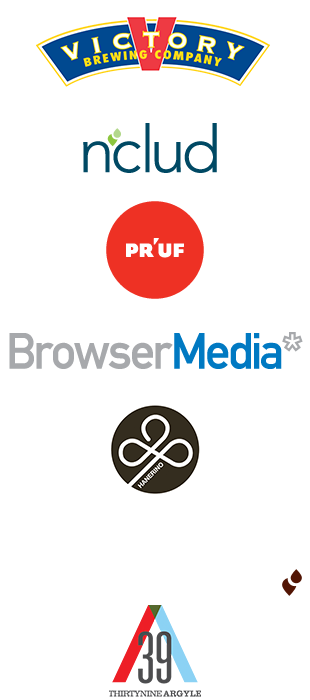
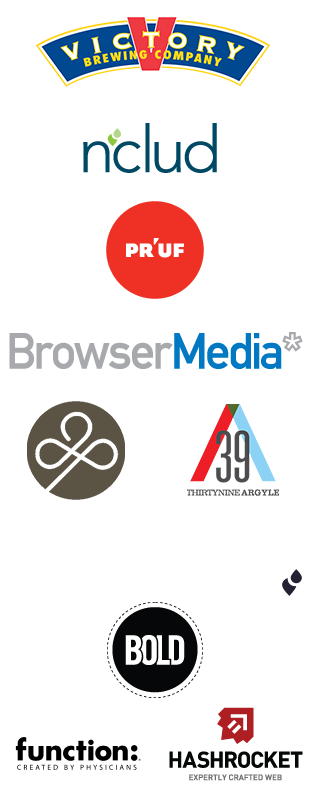
9 sponsors total: Function, hashrocket, Bold

diff --git a/index.html b/index.html
@@ -1,6 +1,6 @@
 ---
 layout: nil
-css_version: '15'
+css_version: '16'
 script_version: '07'
 ---
 <!doctype html>
@@ -148,16 +148,18 @@ script_version: '07'
             <li class="n1"><a class="victory ir" href="http://victorybeer.com/" title="Victory Brewing Company" >Victory Brewing Company</a></li>
             <li class="n2"><a class="pruf ir" href="http://www.mypruf.com/" title="PR&rsquo;UF">PR&rsquo;UF</a></li>
             <li class="n3"><a class="browser-media ir" href="http://www.browsermedia.com/" title="BrowserMedia">BrowserMedia</a></li>
-            <li class="n4"><a class="nclud ir" href="http://nclud.com/" title="nclud" >nclud</a></li>
-            <li class="n5"><a class="hanerino ir" href="http://hanerino.com/" title="Hanerino">Hanerino</a></li>
-            <li class="n6 argyle"><a class="argyle ir" href="http://39argyle.com" title="39Argyle">39Argyle</a></li>
-            <li class="n7 open">Sponsorship available</li>
+            <li class="n4 half"><a class="hanerino ir" href="http://hanerino.com/" title="Hanerino">Hanerino</a></li>
+            <li class="n5 half"><a class="function ir" href="http://functiondrinks.com" title="Function Drinks">Function Drinks</a></li>
+            <li class="n6 half"><a class="hashrocket ir" href="http://hashrocket.com/" title="Hashrocket">Hashrocket</a></li>
+            <li class="n7 half"><a class="argyle ir" href="http://39argyle.com" title="39Argyle">39Argyle</a></li>
+            <li class="n8"><a class="nclud ir" href="http://nclud.com/" title="nclud" >nclud</a></li>
+            <li class="n9"><a class="bold ir" href="http://twitter.com/boldinc" title="Bold" >Bold</a></li>
           </ul>
 
           <p class="fontfabric"><a href="http://fontfabric.com/">Fonts by <b>Fontfabric</b></a></p>
 
           <p class="blurb">
-            Help make BeerCamp happen. <strong>Become a sponsor!</strong> Email us at <a href="mailto:events@nclud.com">events@nclud.com</a>
+            Drink up. These guys are buying the rounds.
           </p>
         </section> <!-- #sponsorz -->
 

diff --git a/css/style.css b/css/style.css
@@ -762,14 +762,20 @@ a:hover {
   text-align: center;
 }
 
+#sponsorz .spnsr-list li.half { width: 145px; }
+
 #sponsorz .spnsr-list li.n2 { left: 330px; }
+#sponsorz .spnsr-list li.n5 { left: 165px; }
+#sponsorz .spnsr-list li.n7 { left: 825px; }
 #sponsorz .spnsr-list li.n3,
-#sponsorz .spnsr-list li.n5,
-#sponsorz .spnsr-list li.n7 { left: 660px; }
-#sponsorz .spnsr-list li.n4,
-#sponsorz .spnsr-list li.n5 { top: 120px; }
 #sponsorz .spnsr-list li.n6,
-#sponsorz .spnsr-list li.n7 { top: 240px; }
+#sponsorz .spnsr-list li.n9 { left: 660px; }
+#sponsorz .spnsr-list li.n4,
+#sponsorz .spnsr-list li.n5,
+#sponsorz .spnsr-list li.n6,
+#sponsorz .spnsr-list li.n7 { top: 120px; }
+#sponsorz .spnsr-list li.n8,
+#sponsorz .spnsr-list li.n9 { top: 240px; }
 
 #sponsorz .spnsr-list li a {
   background-image: url('../img/sponsors.png');
@@ -783,9 +789,12 @@ a:hover {
 #sponsorz .nclud         { background-position: 0 -100px; }
 #sponsorz .pruf          { background-position: 0 -200px; }
 #sponsorz .browser-media { background-position: 0 -300px; }
-#sponsorz .hanerino      { background-position: 0 -400px; }
-#sponsorz .argyle        { background-position: 0 -600px; }
+#sponsorz .bold          { background-position: 0 -600px; }
 
+#sponsorz .hanerino      { background-position:   -5px -400px; }
+#sponsorz .argyle        { background-position: -160px -400px; }
+#sponsorz .function      { background-position:   -5px -700px; }
+#sponsorz .hashrocket    { background-position: -164px -700px; }
 
 #sponsorz .spnsr-list li.open {
   font-size: 18px;
